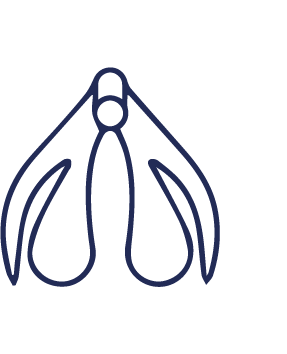
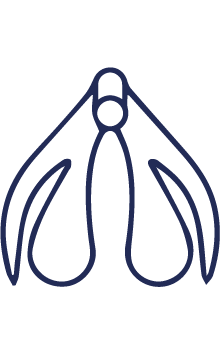
content landing mythen einmitten

Changed region(s): [[0.0, 0.1864, 1.0, 0.8079]]

diff --git a/index.html b/index.html
@@ -67,7 +67,7 @@
             <section>
                 <div class="container">
                     <div class="row titel">
-                        <div class="col-md-12">
+                        <div class="col-md-12 mobile-center">
                             <h1>Vulva Mythen</h1>
                         </div>
                     </div>
@@ -75,7 +75,7 @@
           
             <section class="space--xs">
                 <div class="container">
-                    <div class="row">
+                    <div class="row mobile-center">
                         <div class="col-md-6 col-lg-3 abstand-box">
                             <div class="feature feature-6 ">
                             <a href="#" class="feature feature-6""> <img class="dark-icon" alt="Pic" src="img/VL_Icons_transparent-04.png">
@@ -98,7 +98,9 @@
                         </div>
                      <div class="col-md-6 col-lg-3">
                             <div class="feature feature-6 abstand-box">
-                            <a href="#" class="feature"> <img class="dark-icon" alt="Pic" src="img/VL_Icons_transparent-03.png">
+                            <a href="#" class="feature"><img class="mob dark-icon" alt="Pic" src="img/VL_Icons_transparent-03.jpg"> <img class="resp dark-icon " alt="Pic" src="img/VL_Icons_transparent-03-resp.png">
+                                
+                           
                                 <h4><b>Labiaplasty</b></h4>
                                 <p class="averta-small"> In der plastischen Chirurgie gibt es einen neuen Trend: die Schamlippenkorrektur. </p>
                                 <a href="labiaplasty.html"><h5 class="text-decoration"><b>Mehr erfahren</b></h5></a>

diff --git a/size-matters.html b/size-matters.html
@@ -36,8 +36,8 @@
                                                 <div class="pos-vertical-center pos-asbolute text-center">
                                                     
                                                     <ul class="menu-vertical">
-                                                        <li class="h3"> <a href="index.html">Vagina Love</a> </li>
-                                                        <li class="h3"> <a href="das-projekt.html">Das Projekt</a> </li>
+                                                        <li class="h2"> <a href="index.html">Vagina Love</a> </li>
+                                                        <li class="h2"> <a href="das-projekt.html">Das Projekt</a> </li>
                                                        
                                                     </ul>
                                                 </div>

diff --git a/css/custom.css b/css/custom.css
@@ -54,8 +54,13 @@ body {
 }
 
 
+.mob {
+    display: inline!important;
+}
 
-
+.resp {
+    display: none!important;
+}
 
 
 
@@ -673,6 +678,19 @@ a.feature img:first-child:not(:last-child) {
 
 .feature-large {
     padding-bottom: 50px;
+}
+
+.mobile-center {
+    text-align: center;
+}
+
+.mob {
+    display: none!important;
+}
+
+.resp {
+    display:inline!important;
+
 }
 
 }
